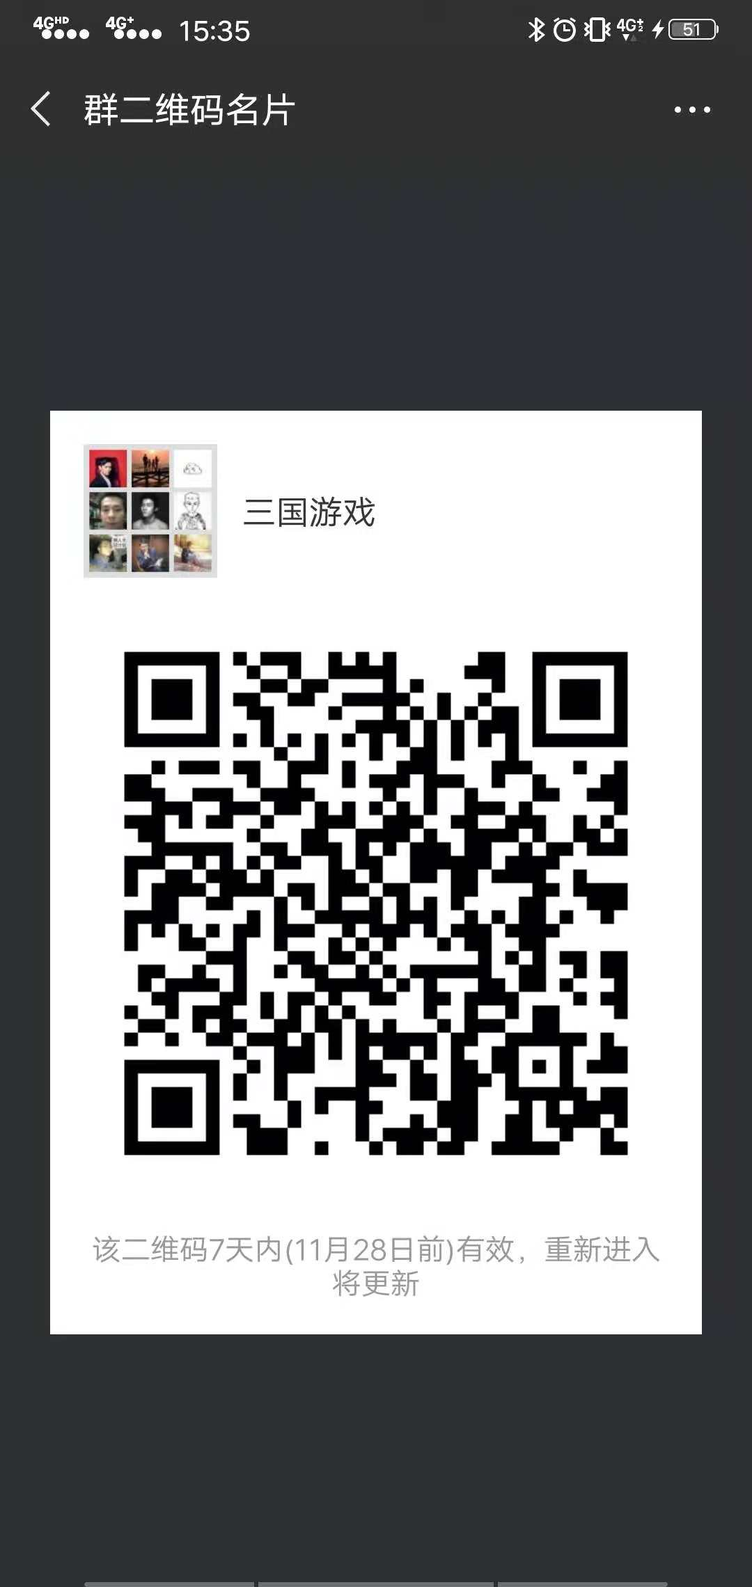
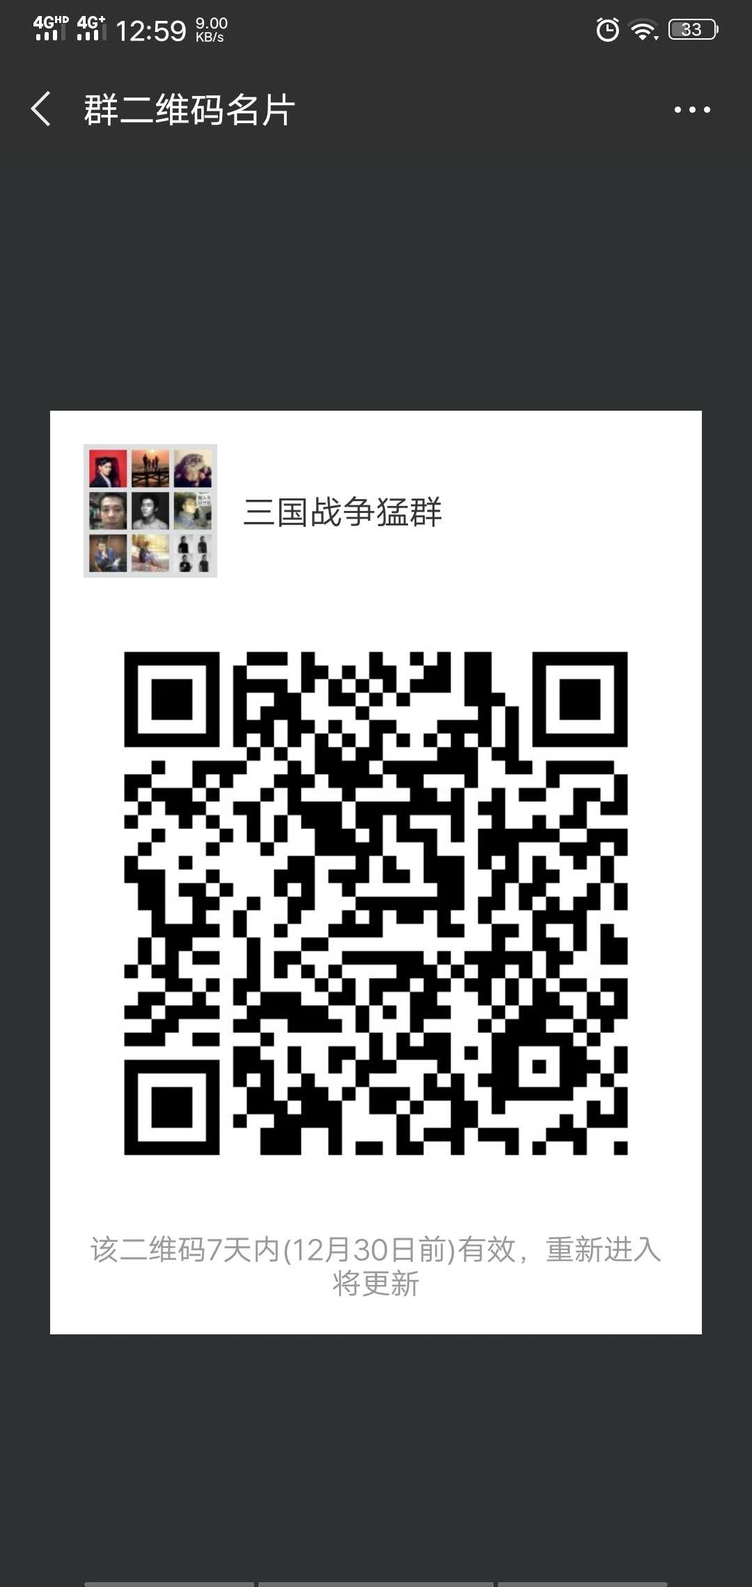
Site updated: 2018-12-23 13:22:42

diff --git a/2018/11/21/sgzz/index.html b/2018/11/21/sgzz/index.html
@@ -1,2 +1,2 @@
-<!DOCTYPE html><html lang="zh-CN"><head><meta charset="utf-8"><meta name="X-UA-Compatible" content="IE=edge"><meta name="author" content="long"><title>三国战争-龍团微信二维码 · corner_dog</title><meta name="description" content="微信群二维码"><meta name="keywords"><meta content="width=device-width, initial-scale=1.0, maximum-scale=1.0, user-scalable=0" name="viewport"><meta content="yes" name="apple-mobile-web-app-capable"><meta content="black" name="apple-mobile-web-app-status-bar-style"><meta content="telephone=no" name="format-detection"><meta name="renderer" content="webkit"><link rel="short icon" href="/images/favicon.png" type="image/x-icon"><link rel="stylesheet" href="/css/style.css"><link rel="stylesheet" href="/css/blog_basic.css"><link rel="stylesheet" href="/css/font-awesome.min.css"><link rel="alternate" type="application/atom+xml" title="ATOM 1.0" href="/atom.xml"></head><body><div class="sidebar animated fadeInDown"><div class="logo-title"><div class="title"><img src="/images/logo@2x.png" style="width:30%;"><h3 title=""><a href="/">corner_dog</a></h3><div class="description"><p>转角遇到狗</p></div></div></div><ul class="social-links"></ul><div class="footer"><a target="_blank" href="/"><span>Theme by </span></a><a href="https://www.caicai.me"> CaiCai </a><span>&</span><a href="https://github.com/Ben02/hexo-theme-Anatole"> Ben</a><div class="by_farbox"><a href="https://hexo.io/zh-cn/" target="_blank">Proudly published with Hexo&#65281;</a></div></div></div><div class="main"><div class="page-top animated fadeInDown"><div class="nav"><li><a href="/">首页</a></li><li><a href="/about">关于</a></li><li><a href="/archives">归档</a></li><li><a href="/links">友链</a></li></div><div class="information"><div class="back_btn"><li><a onclick="window.history.go(-1)" class="fa fa-chevron-left"> </a></li></div><div class="avatar"><img></div></div></div><div class="autopagerize_page_element"><div class="content"><div class="post-page"><div class="post animated fadeInDown"><div class="post-title"><h3><a>三国战争-龍团微信二维码</a></h3></div><div class="post-content"><h3 id="微信群二维码"><a href="#微信群二维码" class="headerlink" title="微信群二维码"></a>微信群二维码</h3><p><img width="300" height="500" src="/images/sgzz-wxq.jpeg"></p>
-</div><div class="post-footer"><div class="meta"><div class="info"><i class="fa fa-sun-o"></i><span class="date">2018-11-21</span><i class="fa fa-tag"></i><a href="/tags/游戏/" title="游戏" class="tag">游戏 </a></div></div></div></div><div class="share"><div class="evernote"><a href="javascript:(function(){EN_CLIP_HOST='http://www.evernote.com';try{var%20x=document.createElement('SCRIPT');x.type='text/javascript';x.src=EN_CLIP_HOST+'/public/bookmarkClipper.js?'+(new%20Date().getTime()/100000);document.getElementsByTagName('head')[0].appendChild(x);}catch(e){location.href=EN_CLIP_HOST+'/clip.action?url='+encodeURIComponent(location.href)+'&amp;title='+encodeURIComponent(document.title);}})();" ref="nofollow" target="_blank" class="fa fa-bookmark"></a></div><div class="weibo"><a href="javascript:void((function(s,d,e){try{}catch(e){}var f='http://service.weibo.com/share/share.php?',u=d.location.href,p=['url=',e(u),'&amp;title=',e(d.title),'&amp;appkey=2924220432'].join('');function a(){if(!window.open([f,p].join(''),'mb',['toolbar=0,status=0,resizable=1,width=620,height=450,left=',(s.width-620)/2,',top=',(s.height-450)/2].join('')))u.href=[f,p].join('');};if(/Firefox/.test(navigator.userAgent)){setTimeout(a,0)}else{a()}})(screen,document,encodeURIComponent));" class="fa fa-weibo"></a></div><div class="twitter"><a href="http://twitter.com/home?status=,https://www.lixl.xyz/2018/11/21/sgzz/,corner_dog,三国战争-龍团微信二维码,;" class="fa fa-twitter"></a></div></div><div class="pagination"><ul class="clearfix"><li class="next pagbuttons"><a role="navigation" href="/2018/03/07/java-rsa/" title="java-rsa" class="btn">下一篇</a></li></ul></div></div></div></div></div><script src="/js/jquery.js"></script><script src="/js/jquery-migrate-1.2.1.min.js"></script><script src="/js/jquery.appear.js"></script></body></html>
+<!DOCTYPE html><html lang="zh-CN"><head><meta charset="utf-8"><meta name="X-UA-Compatible" content="IE=edge"><meta name="author" content="long"><title>三国战争-天庭微信二维码 · corner_dog</title><meta name="description" content="微信群二维码"><meta name="keywords"><meta content="width=device-width, initial-scale=1.0, maximum-scale=1.0, user-scalable=0" name="viewport"><meta content="yes" name="apple-mobile-web-app-capable"><meta content="black" name="apple-mobile-web-app-status-bar-style"><meta content="telephone=no" name="format-detection"><meta name="renderer" content="webkit"><link rel="short icon" href="/images/favicon.png" type="image/x-icon"><link rel="stylesheet" href="/css/style.css"><link rel="stylesheet" href="/css/blog_basic.css"><link rel="stylesheet" href="/css/font-awesome.min.css"><link rel="alternate" type="application/atom+xml" title="ATOM 1.0" href="/atom.xml"></head><body><div class="sidebar animated fadeInDown"><div class="logo-title"><div class="title"><img src="/images/logo@2x.png" style="width:30%;"><h3 title=""><a href="/">corner_dog</a></h3><div class="description"><p>转角遇到狗</p></div></div></div><ul class="social-links"></ul><div class="footer"><a target="_blank" href="/"><span>Theme by </span></a><a href="https://www.caicai.me"> CaiCai </a><span>&</span><a href="https://github.com/Ben02/hexo-theme-Anatole"> Ben</a><div class="by_farbox"><a href="https://hexo.io/zh-cn/" target="_blank">Proudly published with Hexo&#65281;</a></div></div></div><div class="main"><div class="page-top animated fadeInDown"><div class="nav"><li><a href="/">首页</a></li><li><a href="/about">关于</a></li><li><a href="/archives">归档</a></li><li><a href="/links">友链</a></li></div><div class="information"><div class="back_btn"><li><a onclick="window.history.go(-1)" class="fa fa-chevron-left"> </a></li></div><div class="avatar"><img></div></div></div><div class="autopagerize_page_element"><div class="content"><div class="post-page"><div class="post animated fadeInDown"><div class="post-title"><h3><a>三国战争-天庭微信二维码</a></h3></div><div class="post-content"><h3 id="微信群二维码"><a href="#微信群二维码" class="headerlink" title="微信群二维码"></a>微信群二维码</h3><p><img width="300" height="500" src="/images/sgzz-wxq.jpeg"></p>
+</div><div class="post-footer"><div class="meta"><div class="info"><i class="fa fa-sun-o"></i><span class="date">2018-11-21</span><i class="fa fa-tag"></i><a href="/tags/游戏/" title="游戏" class="tag">游戏 </a></div></div></div></div><div class="share"><div class="evernote"><a href="javascript:(function(){EN_CLIP_HOST='http://www.evernote.com';try{var%20x=document.createElement('SCRIPT');x.type='text/javascript';x.src=EN_CLIP_HOST+'/public/bookmarkClipper.js?'+(new%20Date().getTime()/100000);document.getElementsByTagName('head')[0].appendChild(x);}catch(e){location.href=EN_CLIP_HOST+'/clip.action?url='+encodeURIComponent(location.href)+'&amp;title='+encodeURIComponent(document.title);}})();" ref="nofollow" target="_blank" class="fa fa-bookmark"></a></div><div class="weibo"><a href="javascript:void((function(s,d,e){try{}catch(e){}var f='http://service.weibo.com/share/share.php?',u=d.location.href,p=['url=',e(u),'&amp;title=',e(d.title),'&amp;appkey=2924220432'].join('');function a(){if(!window.open([f,p].join(''),'mb',['toolbar=0,status=0,resizable=1,width=620,height=450,left=',(s.width-620)/2,',top=',(s.height-450)/2].join('')))u.href=[f,p].join('');};if(/Firefox/.test(navigator.userAgent)){setTimeout(a,0)}else{a()}})(screen,document,encodeURIComponent));" class="fa fa-weibo"></a></div><div class="twitter"><a href="http://twitter.com/home?status=,https://www.lixl.xyz/2018/11/21/sgzz/,corner_dog,三国战争-天庭微信二维码,;" class="fa fa-twitter"></a></div></div><div class="pagination"><ul class="clearfix"><li class="next pagbuttons"><a role="navigation" href="/2018/03/07/java-rsa/" title="java-rsa" class="btn">下一篇</a></li></ul></div></div></div></div></div><script src="/js/jquery.js"></script><script src="/js/jquery-migrate-1.2.1.min.js"></script><script src="/js/jquery.appear.js"></script></body></html>

diff --git a/archives/index.html b/archives/index.html
@@ -1,1 +1,1 @@
-<!DOCTYPE html><html lang="zh-CN"><head><meta charset="utf-8"><meta name="X-UA-Compatible" content="IE=edge"><meta name="author" content="long"><title>归档 · corner_dog</title><meta name="description" content="归档页面 - corner_dog"><meta name="keywords"><meta content="width=device-width, initial-scale=1.0, maximum-scale=1.0, user-scalable=0" name="viewport"><meta content="yes" name="apple-mobile-web-app-capable"><meta content="black" name="apple-mobile-web-app-status-bar-style"><meta content="telephone=no" name="format-detection"><meta name="renderer" content="webkit"><link rel="short icon" href="/images/favicon.png" type="image/x-icon"><link rel="stylesheet" href="/css/style.css"><link rel="stylesheet" href="/css/blog_basic.css"><link rel="stylesheet" href="/css/font-awesome.min.css"><link rel="alternate" type="application/atom+xml" title="ATOM 1.0" href="/atom.xml"></head><body><div class="sidebar animated fadeInDown"><div class="logo-title"><div class="title"><img src="/images/logo@2x.png" style="width:30%;"><h3 title=""><a href="/">corner_dog</a></h3><div class="description"><p>转角遇到狗</p></div></div></div><ul class="social-links"></ul><div class="footer"><a target="_blank" href="/"><span>Theme by </span></a><a href="https://www.caicai.me"> CaiCai </a><span>&</span><a href="https://github.com/Ben02/hexo-theme-Anatole"> Ben</a><div class="by_farbox"><a href="https://hexo.io/zh-cn/" target="_blank">Proudly published with Hexo&#65281;</a></div></div></div><div class="main"><div class="page-top animated fadeInDown"><div class="nav"><li><a href="/">首页</a></li><li><a href="/about">关于</a></li><li><a href="/archives" class="current">归档</a></li><li><a href="/links">友链</a></li></div><div class="information"><div class="back_btn"><li><a onclick="window.history.go(-1)" style="display:none;" class="fa fa-chevron-left"> </a></li></div><div class="avatar"><img></div></div></div><div class="autopagerize_page_element"><div class="content"><div class="archive animated fadeInDown"><ul class="list-with-title"><div class="archive"><div class="listing-title">2018</div><ul class="listing"><div class="listing-item"><div class="listing-post"><a href="/2018/11/21/sgzz/" title="三国战争-龍团微信二维码">三国战争-龍团微信二维码</a><div class="post-time"><span class="date">11-21</span></div></div></div><div class="listing-item"><div class="listing-post"><a href="/2018/03/07/java-rsa/" title="java-rsa">java-rsa</a><div class="post-time"><span class="date">03-07</span></div></div></div><div class="listing-item"><div class="listing-post"><a href="/2018/03/01/node-rsa/" title="node-rsa">node-rsa</a><div class="post-time"><span class="date">03-01</span></div></div></div><div class="listing-item"><div class="listing-post"><a href="/2018/01/15/apacheFtpServer/" title="Apache FtpServer 数据库使用配置">Apache FtpServer 数据库使用配置</a><div class="post-time"><span class="date">01-15</span></div></div></div></ul><div class="listing-title">2017</div><ul class="listing"><div class="listing-item"><div class="listing-post"><a href="/2017/12/25/hello-world/" title="Hello World">Hello World</a><div class="post-time"><span class="date">12-25</span></div></div></div></div><div class="pagination"><ul class="clearfix"></ul></div></ul></div></div></div></div><script src="/js/jquery.js"></script><script src="/js/jquery-migrate-1.2.1.min.js"></script><script src="/js/jquery.appear.js"></script></body></html>
+<!DOCTYPE html><html lang="zh-CN"><head><meta charset="utf-8"><meta name="X-UA-Compatible" content="IE=edge"><meta name="author" content="long"><title>归档 · corner_dog</title><meta name="description" content="归档页面 - corner_dog"><meta name="keywords"><meta content="width=device-width, initial-scale=1.0, maximum-scale=1.0, user-scalable=0" name="viewport"><meta content="yes" name="apple-mobile-web-app-capable"><meta content="black" name="apple-mobile-web-app-status-bar-style"><meta content="telephone=no" name="format-detection"><meta name="renderer" content="webkit"><link rel="short icon" href="/images/favicon.png" type="image/x-icon"><link rel="stylesheet" href="/css/style.css"><link rel="stylesheet" href="/css/blog_basic.css"><link rel="stylesheet" href="/css/font-awesome.min.css"><link rel="alternate" type="application/atom+xml" title="ATOM 1.0" href="/atom.xml"></head><body><div class="sidebar animated fadeInDown"><div class="logo-title"><div class="title"><img src="/images/logo@2x.png" style="width:30%;"><h3 title=""><a href="/">corner_dog</a></h3><div class="description"><p>转角遇到狗</p></div></div></div><ul class="social-links"></ul><div class="footer"><a target="_blank" href="/"><span>Theme by </span></a><a href="https://www.caicai.me"> CaiCai </a><span>&</span><a href="https://github.com/Ben02/hexo-theme-Anatole"> Ben</a><div class="by_farbox"><a href="https://hexo.io/zh-cn/" target="_blank">Proudly published with Hexo&#65281;</a></div></div></div><div class="main"><div class="page-top animated fadeInDown"><div class="nav"><li><a href="/">首页</a></li><li><a href="/about">关于</a></li><li><a href="/archives" class="current">归档</a></li><li><a href="/links">友链</a></li></div><div class="information"><div class="back_btn"><li><a onclick="window.history.go(-1)" style="display:none;" class="fa fa-chevron-left"> </a></li></div><div class="avatar"><img></div></div></div><div class="autopagerize_page_element"><div class="content"><div class="archive animated fadeInDown"><ul class="list-with-title"><div class="archive"><div class="listing-title">2018</div><ul class="listing"><div class="listing-item"><div class="listing-post"><a href="/2018/11/21/sgzz/" title="三国战争-天庭微信二维码">三国战争-天庭微信二维码</a><div class="post-time"><span class="date">11-21</span></div></div></div><div class="listing-item"><div class="listing-post"><a href="/2018/03/07/java-rsa/" title="java-rsa">java-rsa</a><div class="post-time"><span class="date">03-07</span></div></div></div><div class="listing-item"><div class="listing-post"><a href="/2018/03/01/node-rsa/" title="node-rsa">node-rsa</a><div class="post-time"><span class="date">03-01</span></div></div></div><div class="listing-item"><div class="listing-post"><a href="/2018/01/15/apacheFtpServer/" title="Apache FtpServer 数据库使用配置">Apache FtpServer 数据库使用配置</a><div class="post-time"><span class="date">01-15</span></div></div></div></ul><div class="listing-title">2017</div><ul class="listing"><div class="listing-item"><div class="listing-post"><a href="/2017/12/25/hello-world/" title="Hello World">Hello World</a><div class="post-time"><span class="date">12-25</span></div></div></div></div><div class="pagination"><ul class="clearfix"></ul></div></ul></div></div></div></div><script src="/js/jquery.js"></script><script src="/js/jquery-migrate-1.2.1.min.js"></script><script src="/js/jquery.appear.js"></script></body></html>

diff --git a/index.html b/index.html
@@ -1,4 +1,4 @@
-<!DOCTYPE html><html lang="zh-CN"><head><meta charset="utf-8"><meta name="X-UA-Compatible" content="IE=edge"><meta name="author" content="long"><title>corner_dog</title><meta name="description" content="转角遇到狗"><meta name="keywords"><meta content="width=device-width, initial-scale=1.0, maximum-scale=1.0, user-scalable=0" name="viewport"><meta content="yes" name="apple-mobile-web-app-capable"><meta content="black" name="apple-mobile-web-app-status-bar-style"><meta content="telephone=no" name="format-detection"><meta name="renderer" content="webkit"><link rel="short icon" href="/images/favicon.png" type="image/x-icon"><link rel="stylesheet" href="/css/style.css"><link rel="stylesheet" href="/css/blog_basic.css"><link rel="stylesheet" href="/css/font-awesome.min.css"><link rel="alternate" type="application/atom+xml" title="ATOM 1.0" href="/atom.xml"></head><body><div class="sidebar animated fadeInDown"><div class="logo-title"><div class="title"><img src="/images/logo@2x.png" style="width:30%;"><h3 title=""><a href="/">corner_dog</a></h3><div class="description"><p>转角遇到狗</p></div></div></div><ul class="social-links"></ul><div class="footer"><a target="_blank" href="/"><span>Theme by </span></a><a href="https://www.caicai.me"> CaiCai </a><span>&</span><a href="https://github.com/Ben02/hexo-theme-Anatole"> Ben</a><div class="by_farbox"><a href="https://hexo.io/zh-cn/" target="_blank">Proudly published with Hexo&#65281;</a></div></div></div><div class="main"><div class="page-top animated fadeInDown"><div class="nav"><li><a href="/" class="current">首页</a></li><li><a href="/about">关于</a></li><li><a href="/archives">归档</a></li><li><a href="/links">友链</a></li></div><div class="information"><div class="back_btn"><li><a onclick="window.history.go(-1)" style="display:none;" class="fa fa-chevron-left"> </a></li></div><div class="avatar"><img></div></div></div><div class="autopagerize_page_element"><div class="content"><div class="post animated fadeInDown"><div class="post-title"><h3><a href="/2018/11/21/sgzz/">三国战争-龍团微信二维码</a></h3></div><div class="post-content"><p>微信群二维码
+<!DOCTYPE html><html lang="zh-CN"><head><meta charset="utf-8"><meta name="X-UA-Compatible" content="IE=edge"><meta name="author" content="long"><title>corner_dog</title><meta name="description" content="转角遇到狗"><meta name="keywords"><meta content="width=device-width, initial-scale=1.0, maximum-scale=1.0, user-scalable=0" name="viewport"><meta content="yes" name="apple-mobile-web-app-capable"><meta content="black" name="apple-mobile-web-app-status-bar-style"><meta content="telephone=no" name="format-detection"><meta name="renderer" content="webkit"><link rel="short icon" href="/images/favicon.png" type="image/x-icon"><link rel="stylesheet" href="/css/style.css"><link rel="stylesheet" href="/css/blog_basic.css"><link rel="stylesheet" href="/css/font-awesome.min.css"><link rel="alternate" type="application/atom+xml" title="ATOM 1.0" href="/atom.xml"></head><body><div class="sidebar animated fadeInDown"><div class="logo-title"><div class="title"><img src="/images/logo@2x.png" style="width:30%;"><h3 title=""><a href="/">corner_dog</a></h3><div class="description"><p>转角遇到狗</p></div></div></div><ul class="social-links"></ul><div class="footer"><a target="_blank" href="/"><span>Theme by </span></a><a href="https://www.caicai.me"> CaiCai </a><span>&</span><a href="https://github.com/Ben02/hexo-theme-Anatole"> Ben</a><div class="by_farbox"><a href="https://hexo.io/zh-cn/" target="_blank">Proudly published with Hexo&#65281;</a></div></div></div><div class="main"><div class="page-top animated fadeInDown"><div class="nav"><li><a href="/" class="current">首页</a></li><li><a href="/about">关于</a></li><li><a href="/archives">归档</a></li><li><a href="/links">友链</a></li></div><div class="information"><div class="back_btn"><li><a onclick="window.history.go(-1)" style="display:none;" class="fa fa-chevron-left"> </a></li></div><div class="avatar"><img></div></div></div><div class="autopagerize_page_element"><div class="content"><div class="post animated fadeInDown"><div class="post-title"><h3><a href="/2018/11/21/sgzz/">三国战争-天庭微信二维码</a></h3></div><div class="post-content"><p>微信群二维码
 </p></div><div class="post-footer"><div class="meta"><div class="info"><i class="fa fa-sun-o"></i><span class="date">2018-11-21</span><i class="fa fa-tag"></i><a href="/tags/游戏/" title="游戏" class="tag">游戏 </a></div></div></div></div><div class="post animated fadeInDown"><div class="post-title"><h3><a href="/2018/03/07/java-rsa/">java-rsa</a></h3></div><div class="post-content"><p>问题java 环境中，在服务器端和客户端通过同一对RSA秘钥进行加解密时，加密后不能正常解密，在服务端主机加密后服务端可以解密，在客户端主机加密后客户端也可以解密，客户端加密后发送到服务端，解密失败。经过大量比对验证，确认秘钥对一致，加密解密代码一致。问题在于jdk不一致，在不同jdk环境中，下面代码执行的方式有...</p></div><div class="post-footer"><div class="meta"><div class="info"><i class="fa fa-sun-o"></i><span class="date">2018-03-07</span><i class="fa fa-tag"></i><a href="/tags/java-rsa-加解密问题/" title="java rsa 加解密问题" class="tag">java rsa 加解密问题 </a></div></div></div></div><div class="post animated fadeInDown"><div class="post-title"><h3><a href="/2018/03/01/node-rsa/">node-rsa</a></h3></div><div class="post-content"><p>node-rsa 解决在js中使用rsa非对称秘钥的一整套解决方案,不需要依赖OpenSSL,支持长数据格式的加密和解密、签名和验证,同时也可以在客户端生成秘钥对。
 示例12345678var NodeRSA = require('node-rsa');var key = new NodeRSA(&#123;b:...</p></div><div class="post-footer"><div class="meta"><div class="info"><i class="fa fa-sun-o"></i><span class="date">2018-03-01</span><i class="fa fa-tag"></i><a href="/tags/node-rsa-js加密/" title="node rsa js加密" class="tag">node rsa js加密 </a></div></div></div></div><div class="post animated fadeInDown"><div class="post-title"><h3><a href="/2018/01/15/apacheFtpServer/">Apache FtpServer 数据库使用配置</a></h3></div><div class="post-content"><p>Apache FtpServer是纯Java写的开源FTP服务器，支持配合文件和数据库管理ftp用户，本文以apache-ftpserver-1.1.1版本为例。
 开始下载Apache FtpServer官网网站|进入下载页面

diff --git a/archives/2018/index.html b/archives/2018/index.html
@@ -1,1 +1,1 @@
-<!DOCTYPE html><html lang="zh-CN"><head><meta charset="utf-8"><meta name="X-UA-Compatible" content="IE=edge"><meta name="author" content="long"><title>归档 · corner_dog</title><meta name="description" content="归档页面 - corner_dog"><meta name="keywords"><meta content="width=device-width, initial-scale=1.0, maximum-scale=1.0, user-scalable=0" name="viewport"><meta content="yes" name="apple-mobile-web-app-capable"><meta content="black" name="apple-mobile-web-app-status-bar-style"><meta content="telephone=no" name="format-detection"><meta name="renderer" content="webkit"><link rel="short icon" href="/images/favicon.png" type="image/x-icon"><link rel="stylesheet" href="/css/style.css"><link rel="stylesheet" href="/css/blog_basic.css"><link rel="stylesheet" href="/css/font-awesome.min.css"><link rel="alternate" type="application/atom+xml" title="ATOM 1.0" href="/atom.xml"></head><body><div class="sidebar animated fadeInDown"><div class="logo-title"><div class="title"><img src="/images/logo@2x.png" style="width:30%;"><h3 title=""><a href="/">corner_dog</a></h3><div class="description"><p>转角遇到狗</p></div></div></div><ul class="social-links"></ul><div class="footer"><a target="_blank" href="/"><span>Theme by </span></a><a href="https://www.caicai.me"> CaiCai </a><span>&</span><a href="https://github.com/Ben02/hexo-theme-Anatole"> Ben</a><div class="by_farbox"><a href="https://hexo.io/zh-cn/" target="_blank">Proudly published with Hexo&#65281;</a></div></div></div><div class="main"><div class="page-top animated fadeInDown"><div class="nav"><li><a href="/">首页</a></li><li><a href="/about">关于</a></li><li><a href="/archives" class="current">归档</a></li><li><a href="/links">友链</a></li></div><div class="information"><div class="back_btn"><li><a onclick="window.history.go(-1)" style="display:none;" class="fa fa-chevron-left"> </a></li></div><div class="avatar"><img></div></div></div><div class="autopagerize_page_element"><div class="content"><div class="archive animated fadeInDown"><ul class="list-with-title"><div class="archive"><div class="listing-title">2018</div><ul class="listing"><div class="listing-item"><div class="listing-post"><a href="/2018/11/21/sgzz/" title="三国战争-龍团微信二维码">三国战争-龍团微信二维码</a><div class="post-time"><span class="date">11-21</span></div></div></div><div class="listing-item"><div class="listing-post"><a href="/2018/03/07/java-rsa/" title="java-rsa">java-rsa</a><div class="post-time"><span class="date">03-07</span></div></div></div><div class="listing-item"><div class="listing-post"><a href="/2018/03/01/node-rsa/" title="node-rsa">node-rsa</a><div class="post-time"><span class="date">03-01</span></div></div></div><div class="listing-item"><div class="listing-post"><a href="/2018/01/15/apacheFtpServer/" title="Apache FtpServer 数据库使用配置">Apache FtpServer 数据库使用配置</a><div class="post-time"><span class="date">01-15</span></div></div></div></div><div class="pagination"><ul class="clearfix"></ul></div></ul></div></div></div></div><script src="/js/jquery.js"></script><script src="/js/jquery-migrate-1.2.1.min.js"></script><script src="/js/jquery.appear.js"></script></body></html>
+<!DOCTYPE html><html lang="zh-CN"><head><meta charset="utf-8"><meta name="X-UA-Compatible" content="IE=edge"><meta name="author" content="long"><title>归档 · corner_dog</title><meta name="description" content="归档页面 - corner_dog"><meta name="keywords"><meta content="width=device-width, initial-scale=1.0, maximum-scale=1.0, user-scalable=0" name="viewport"><meta content="yes" name="apple-mobile-web-app-capable"><meta content="black" name="apple-mobile-web-app-status-bar-style"><meta content="telephone=no" name="format-detection"><meta name="renderer" content="webkit"><link rel="short icon" href="/images/favicon.png" type="image/x-icon"><link rel="stylesheet" href="/css/style.css"><link rel="stylesheet" href="/css/blog_basic.css"><link rel="stylesheet" href="/css/font-awesome.min.css"><link rel="alternate" type="application/atom+xml" title="ATOM 1.0" href="/atom.xml"></head><body><div class="sidebar animated fadeInDown"><div class="logo-title"><div class="title"><img src="/images/logo@2x.png" style="width:30%;"><h3 title=""><a href="/">corner_dog</a></h3><div class="description"><p>转角遇到狗</p></div></div></div><ul class="social-links"></ul><div class="footer"><a target="_blank" href="/"><span>Theme by </span></a><a href="https://www.caicai.me"> CaiCai </a><span>&</span><a href="https://github.com/Ben02/hexo-theme-Anatole"> Ben</a><div class="by_farbox"><a href="https://hexo.io/zh-cn/" target="_blank">Proudly published with Hexo&#65281;</a></div></div></div><div class="main"><div class="page-top animated fadeInDown"><div class="nav"><li><a href="/">首页</a></li><li><a href="/about">关于</a></li><li><a href="/archives" class="current">归档</a></li><li><a href="/links">友链</a></li></div><div class="information"><div class="back_btn"><li><a onclick="window.history.go(-1)" style="display:none;" class="fa fa-chevron-left"> </a></li></div><div class="avatar"><img></div></div></div><div class="autopagerize_page_element"><div class="content"><div class="archive animated fadeInDown"><ul class="list-with-title"><div class="archive"><div class="listing-title">2018</div><ul class="listing"><div class="listing-item"><div class="listing-post"><a href="/2018/11/21/sgzz/" title="三国战争-天庭微信二维码">三国战争-天庭微信二维码</a><div class="post-time"><span class="date">11-21</span></div></div></div><div class="listing-item"><div class="listing-post"><a href="/2018/03/07/java-rsa/" title="java-rsa">java-rsa</a><div class="post-time"><span class="date">03-07</span></div></div></div><div class="listing-item"><div class="listing-post"><a href="/2018/03/01/node-rsa/" title="node-rsa">node-rsa</a><div class="post-time"><span class="date">03-01</span></div></div></div><div class="listing-item"><div class="listing-post"><a href="/2018/01/15/apacheFtpServer/" title="Apache FtpServer 数据库使用配置">Apache FtpServer 数据库使用配置</a><div class="post-time"><span class="date">01-15</span></div></div></div></div><div class="pagination"><ul class="clearfix"></ul></div></ul></div></div></div></div><script src="/js/jquery.js"></script><script src="/js/jquery-migrate-1.2.1.min.js"></script><script src="/js/jquery.appear.js"></script></body></html>

diff --git a/archives/2018/11/index.html b/archives/2018/11/index.html
@@ -1,1 +1,1 @@
-<!DOCTYPE html><html lang="zh-CN"><head><meta charset="utf-8"><meta name="X-UA-Compatible" content="IE=edge"><meta name="author" content="long"><title>归档 · corner_dog</title><meta name="description" content="归档页面 - corner_dog"><meta name="keywords"><meta content="width=device-width, initial-scale=1.0, maximum-scale=1.0, user-scalable=0" name="viewport"><meta content="yes" name="apple-mobile-web-app-capable"><meta content="black" name="apple-mobile-web-app-status-bar-style"><meta content="telephone=no" name="format-detection"><meta name="renderer" content="webkit"><link rel="short icon" href="/images/favicon.png" type="image/x-icon"><link rel="stylesheet" href="/css/style.css"><link rel="stylesheet" href="/css/blog_basic.css"><link rel="stylesheet" href="/css/font-awesome.min.css"><link rel="alternate" type="application/atom+xml" title="ATOM 1.0" href="/atom.xml"></head><body><div class="sidebar animated fadeInDown"><div class="logo-title"><div class="title"><img src="/images/logo@2x.png" style="width:30%;"><h3 title=""><a href="/">corner_dog</a></h3><div class="description"><p>转角遇到狗</p></div></div></div><ul class="social-links"></ul><div class="footer"><a target="_blank" href="/"><span>Theme by </span></a><a href="https://www.caicai.me"> CaiCai </a><span>&</span><a href="https://github.com/Ben02/hexo-theme-Anatole"> Ben</a><div class="by_farbox"><a href="https://hexo.io/zh-cn/" target="_blank">Proudly published with Hexo&#65281;</a></div></div></div><div class="main"><div class="page-top animated fadeInDown"><div class="nav"><li><a href="/">首页</a></li><li><a href="/about">关于</a></li><li><a href="/archives" class="current">归档</a></li><li><a href="/links">友链</a></li></div><div class="information"><div class="back_btn"><li><a onclick="window.history.go(-1)" style="display:none;" class="fa fa-chevron-left"> </a></li></div><div class="avatar"><img></div></div></div><div class="autopagerize_page_element"><div class="content"><div class="archive animated fadeInDown"><ul class="list-with-title"><div class="archive"><div class="listing-title">2018</div><ul class="listing"><div class="listing-item"><div class="listing-post"><a href="/2018/11/21/sgzz/" title="三国战争-龍团微信二维码">三国战争-龍团微信二维码</a><div class="post-time"><span class="date">11-21</span></div></div></div></div><div class="pagination"><ul class="clearfix"></ul></div></ul></div></div></div></div><script src="/js/jquery.js"></script><script src="/js/jquery-migrate-1.2.1.min.js"></script><script src="/js/jquery.appear.js"></script></body></html>
+<!DOCTYPE html><html lang="zh-CN"><head><meta charset="utf-8"><meta name="X-UA-Compatible" content="IE=edge"><meta name="author" content="long"><title>归档 · corner_dog</title><meta name="description" content="归档页面 - corner_dog"><meta name="keywords"><meta content="width=device-width, initial-scale=1.0, maximum-scale=1.0, user-scalable=0" name="viewport"><meta content="yes" name="apple-mobile-web-app-capable"><meta content="black" name="apple-mobile-web-app-status-bar-style"><meta content="telephone=no" name="format-detection"><meta name="renderer" content="webkit"><link rel="short icon" href="/images/favicon.png" type="image/x-icon"><link rel="stylesheet" href="/css/style.css"><link rel="stylesheet" href="/css/blog_basic.css"><link rel="stylesheet" href="/css/font-awesome.min.css"><link rel="alternate" type="application/atom+xml" title="ATOM 1.0" href="/atom.xml"></head><body><div class="sidebar animated fadeInDown"><div class="logo-title"><div class="title"><img src="/images/logo@2x.png" style="width:30%;"><h3 title=""><a href="/">corner_dog</a></h3><div class="description"><p>转角遇到狗</p></div></div></div><ul class="social-links"></ul><div class="footer"><a target="_blank" href="/"><span>Theme by </span></a><a href="https://www.caicai.me"> CaiCai </a><span>&</span><a href="https://github.com/Ben02/hexo-theme-Anatole"> Ben</a><div class="by_farbox"><a href="https://hexo.io/zh-cn/" target="_blank">Proudly published with Hexo&#65281;</a></div></div></div><div class="main"><div class="page-top animated fadeInDown"><div class="nav"><li><a href="/">首页</a></li><li><a href="/about">关于</a></li><li><a href="/archives" class="current">归档</a></li><li><a href="/links">友链</a></li></div><div class="information"><div class="back_btn"><li><a onclick="window.history.go(-1)" style="display:none;" class="fa fa-chevron-left"> </a></li></div><div class="avatar"><img></div></div></div><div class="autopagerize_page_element"><div class="content"><div class="archive animated fadeInDown"><ul class="list-with-title"><div class="archive"><div class="listing-title">2018</div><ul class="listing"><div class="listing-item"><div class="listing-post"><a href="/2018/11/21/sgzz/" title="三国战争-天庭微信二维码">三国战争-天庭微信二维码</a><div class="post-time"><span class="date">11-21</span></div></div></div></div><div class="pagination"><ul class="clearfix"></ul></div></ul></div></div></div></div><script src="/js/jquery.js"></script><script src="/js/jquery-migrate-1.2.1.min.js"></script><script src="/js/jquery.appear.js"></script></body></html>

diff --git a/tags/游戏/index.html b/tags/游戏/index.html
@@ -1,1 +1,1 @@
-<!DOCTYPE html><html lang="zh-CN"><head><meta charset="utf-8"><meta name="X-UA-Compatible" content="IE=edge"><meta name="author" content="long"><title>游戏 · corner_dog</title><meta name="description" content="标签：游戏 - corner_dog"><meta name="keywords"><meta content="width=device-width, initial-scale=1.0, maximum-scale=1.0, user-scalable=0" name="viewport"><meta content="yes" name="apple-mobile-web-app-capable"><meta content="black" name="apple-mobile-web-app-status-bar-style"><meta content="telephone=no" name="format-detection"><meta name="renderer" content="webkit"><link rel="short icon" href="/images/favicon.png" type="image/x-icon"><link rel="stylesheet" href="/css/style.css"><link rel="stylesheet" href="/css/blog_basic.css"><link rel="stylesheet" href="/css/font-awesome.min.css"><link rel="alternate" type="application/atom+xml" title="ATOM 1.0" href="/atom.xml"></head><body><div class="sidebar animated fadeInDown"><div class="logo-title"><div class="title"><img src="/images/logo@2x.png" style="width:30%;"><h3 title=""><a href="/">corner_dog</a></h3><div class="description"><p>转角遇到狗</p></div></div></div><ul class="social-links"></ul><div class="footer"><a target="_blank" href="/"><span>Theme by </span></a><a href="https://www.caicai.me"> CaiCai </a><span>&</span><a href="https://github.com/Ben02/hexo-theme-Anatole"> Ben</a><div class="by_farbox"><a href="https://hexo.io/zh-cn/" target="_blank">Proudly published with Hexo&#65281;</a></div></div></div><div class="main"><div class="page-top animated fadeInDown"><div class="nav"><li><a href="/">首页</a></li><li><a href="/about">关于</a></li><li><a href="/archives">归档</a></li><li><a href="/links">友链</a></li></div><div class="information"><div class="back_btn"><li><a onclick="window.history.go(-1)" style="display:none;" class="fa fa-chevron-left"> </a></li></div><div class="avatar"><img></div></div></div><div class="autopagerize_page_element"><div class="content"><div class="archive animated fadeInDown"><ul class="list-with-title"><div class="archive"><div class="listing-title">2018</div><ul class="listing"><div class="listing-item"><div class="listing-post"><a href="/2018/11/21/sgzz/" title="三国战争-龍团微信二维码">三国战争-龍团微信二维码</a><div class="post-time"><span class="date">11-21</span></div></div></div></div><div class="pagination"><ul class="clearfix"></ul></div></ul></div></div></div></div><script src="/js/jquery.js"></script><script src="/js/jquery-migrate-1.2.1.min.js"></script><script src="/js/jquery.appear.js"></script></body></html>
+<!DOCTYPE html><html lang="zh-CN"><head><meta charset="utf-8"><meta name="X-UA-Compatible" content="IE=edge"><meta name="author" content="long"><title>游戏 · corner_dog</title><meta name="description" content="标签：游戏 - corner_dog"><meta name="keywords"><meta content="width=device-width, initial-scale=1.0, maximum-scale=1.0, user-scalable=0" name="viewport"><meta content="yes" name="apple-mobile-web-app-capable"><meta content="black" name="apple-mobile-web-app-status-bar-style"><meta content="telephone=no" name="format-detection"><meta name="renderer" content="webkit"><link rel="short icon" href="/images/favicon.png" type="image/x-icon"><link rel="stylesheet" href="/css/style.css"><link rel="stylesheet" href="/css/blog_basic.css"><link rel="stylesheet" href="/css/font-awesome.min.css"><link rel="alternate" type="application/atom+xml" title="ATOM 1.0" href="/atom.xml"></head><body><div class="sidebar animated fadeInDown"><div class="logo-title"><div class="title"><img src="/images/logo@2x.png" style="width:30%;"><h3 title=""><a href="/">corner_dog</a></h3><div class="description"><p>转角遇到狗</p></div></div></div><ul class="social-links"></ul><div class="footer"><a target="_blank" href="/"><span>Theme by </span></a><a href="https://www.caicai.me"> CaiCai </a><span>&</span><a href="https://github.com/Ben02/hexo-theme-Anatole"> Ben</a><div class="by_farbox"><a href="https://hexo.io/zh-cn/" target="_blank">Proudly published with Hexo&#65281;</a></div></div></div><div class="main"><div class="page-top animated fadeInDown"><div class="nav"><li><a href="/">首页</a></li><li><a href="/about">关于</a></li><li><a href="/archives">归档</a></li><li><a href="/links">友链</a></li></div><div class="information"><div class="back_btn"><li><a onclick="window.history.go(-1)" style="display:none;" class="fa fa-chevron-left"> </a></li></div><div class="avatar"><img></div></div></div><div class="autopagerize_page_element"><div class="content"><div class="archive animated fadeInDown"><ul class="list-with-title"><div class="archive"><div class="listing-title">2018</div><ul class="listing"><div class="listing-item"><div class="listing-post"><a href="/2018/11/21/sgzz/" title="三国战争-天庭微信二维码">三国战争-天庭微信二维码</a><div class="post-time"><span class="date">11-21</span></div></div></div></div><div class="pagination"><ul class="clearfix"></ul></div></ul></div></div></div></div><script src="/js/jquery.js"></script><script src="/js/jquery-migrate-1.2.1.min.js"></script><script src="/js/jquery.appear.js"></script></body></html>

diff --git a/2018/03/07/java-rsa/index.html b/2018/03/07/java-rsa/index.html
@@ -3,4 +3,4 @@
 <p>在标准jdk中默认填充方式是RSA/ECB/PKCS1Padding。在android中默认填充方式是RSA/ECB/NoPadding<br>导致双方不能互相解密</p>
 <h2 id="解决办法"><a href="#解决办法" class="headerlink" title="解决办法"></a>解决办法</h2><p>标准jdk中<br>Cipher.getInstance(“RSA”)获取Cipher对象<br>非标准jdk<br>Cipher.getInstance(“RSA/ECB/PKCS1Padding”) 获取对象</p>
 <p>同时可以解决解密后乱码问题。</p>
-</div><div class="post-footer"><div class="meta"><div class="info"><i class="fa fa-sun-o"></i><span class="date">2018-03-07</span><i class="fa fa-tag"></i><a href="/tags/java-rsa-加解密问题/" title="java rsa 加解密问题" class="tag">java rsa 加解密问题 </a></div></div></div></div><div class="share"><div class="evernote"><a href="javascript:(function(){EN_CLIP_HOST='http://www.evernote.com';try{var%20x=document.createElement('SCRIPT');x.type='text/javascript';x.src=EN_CLIP_HOST+'/public/bookmarkClipper.js?'+(new%20Date().getTime()/100000);document.getElementsByTagName('head')[0].appendChild(x);}catch(e){location.href=EN_CLIP_HOST+'/clip.action?url='+encodeURIComponent(location.href)+'&amp;title='+encodeURIComponent(document.title);}})();" ref="nofollow" target="_blank" class="fa fa-bookmark"></a></div><div class="weibo"><a href="javascript:void((function(s,d,e){try{}catch(e){}var f='http://service.weibo.com/share/share.php?',u=d.location.href,p=['url=',e(u),'&amp;title=',e(d.title),'&amp;appkey=2924220432'].join('');function a(){if(!window.open([f,p].join(''),'mb',['toolbar=0,status=0,resizable=1,width=620,height=450,left=',(s.width-620)/2,',top=',(s.height-450)/2].join('')))u.href=[f,p].join('');};if(/Firefox/.test(navigator.userAgent)){setTimeout(a,0)}else{a()}})(screen,document,encodeURIComponent));" class="fa fa-weibo"></a></div><div class="twitter"><a href="http://twitter.com/home?status=,https://www.lixl.xyz/2018/03/07/java-rsa/,corner_dog,java-rsa,;" class="fa fa-twitter"></a></div></div><div class="pagination"><ul class="clearfix"><li class="pre pagbuttons"><a role="navigation" href="/2018/11/21/sgzz/" title="三国战争-龍团微信二维码" class="btn">上一篇</a></li><li class="next pagbuttons"><a role="navigation" href="/2018/03/01/node-rsa/" title="node-rsa" class="btn">下一篇</a></li></ul></div></div></div></div></div><script src="/js/jquery.js"></script><script src="/js/jquery-migrate-1.2.1.min.js"></script><script src="/js/jquery.appear.js"></script></body></html>
+</div><div class="post-footer"><div class="meta"><div class="info"><i class="fa fa-sun-o"></i><span class="date">2018-03-07</span><i class="fa fa-tag"></i><a href="/tags/java-rsa-加解密问题/" title="java rsa 加解密问题" class="tag">java rsa 加解密问题 </a></div></div></div></div><div class="share"><div class="evernote"><a href="javascript:(function(){EN_CLIP_HOST='http://www.evernote.com';try{var%20x=document.createElement('SCRIPT');x.type='text/javascript';x.src=EN_CLIP_HOST+'/public/bookmarkClipper.js?'+(new%20Date().getTime()/100000);document.getElementsByTagName('head')[0].appendChild(x);}catch(e){location.href=EN_CLIP_HOST+'/clip.action?url='+encodeURIComponent(location.href)+'&amp;title='+encodeURIComponent(document.title);}})();" ref="nofollow" target="_blank" class="fa fa-bookmark"></a></div><div class="weibo"><a href="javascript:void((function(s,d,e){try{}catch(e){}var f='http://service.weibo.com/share/share.php?',u=d.location.href,p=['url=',e(u),'&amp;title=',e(d.title),'&amp;appkey=2924220432'].join('');function a(){if(!window.open([f,p].join(''),'mb',['toolbar=0,status=0,resizable=1,width=620,height=450,left=',(s.width-620)/2,',top=',(s.height-450)/2].join('')))u.href=[f,p].join('');};if(/Firefox/.test(navigator.userAgent)){setTimeout(a,0)}else{a()}})(screen,document,encodeURIComponent));" class="fa fa-weibo"></a></div><div class="twitter"><a href="http://twitter.com/home?status=,https://www.lixl.xyz/2018/03/07/java-rsa/,corner_dog,java-rsa,;" class="fa fa-twitter"></a></div></div><div class="pagination"><ul class="clearfix"><li class="pre pagbuttons"><a role="navigation" href="/2018/11/21/sgzz/" title="三国战争-天庭微信二维码" class="btn">上一篇</a></li><li class="next pagbuttons"><a role="navigation" href="/2018/03/01/node-rsa/" title="node-rsa" class="btn">下一篇</a></li></ul></div></div></div></div></div><script src="/js/jquery.js"></script><script src="/js/jquery-migrate-1.2.1.min.js"></script><script src="/js/jquery.appear.js"></script></body></html>
